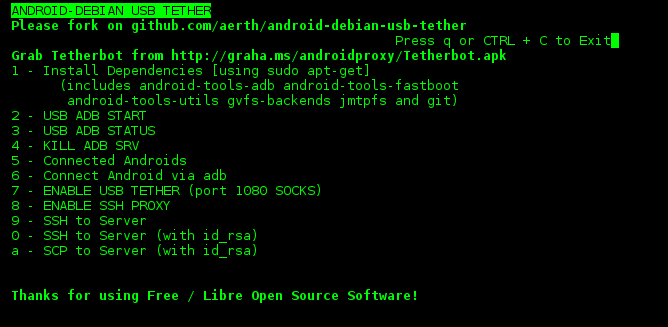
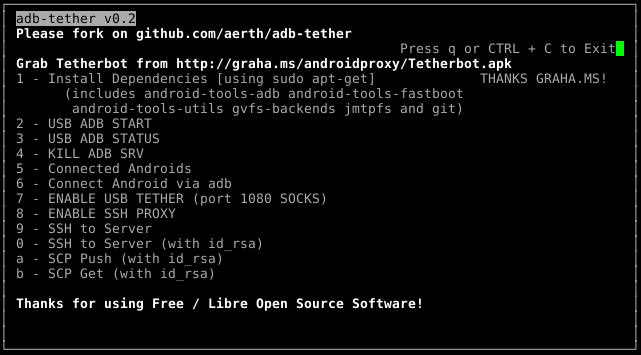
v0.2 adb-tether

Changed region(s): [[0.0, 0.0, 0.9984, 0.7951], [0.0, 0.8257, 0.6552, 0.9174], [0.0, 0.9786, 0.9984, 1.0]]

diff --git a/README.md b/README.md
@@ -1,8 +1,10 @@
-# android-debian-usb-tether
+# adb-tether
 
-Using adb, tetherbot.apk, and SOCKS. Python + curses interface
+Requires adb, tetherbot.apk, and I like to use proxychains with it. Python + curses interface to turn difficult-to-remember commands into one letter commands.
 
 This script makes using Tetherbot easier. Tetherbot shares internet from android to debian via usb, but requres some command lines that are difficult to remember. This script is a python powered interface to make things as easy as pressing "7". 
+
+Thank you
 
 Please fork. Pull requests are very welcome.
 
@@ -15,11 +17,19 @@ Works on: Debian Wheezy & Rooted Sony Xperia Ion LT28at 4G LTE
 
 Usage: 
 ```
-chmod+x tether-cli.py
-./tether-cli.py
+chmod+x adb-tether
+./adb-tether
 ```
 
-Easy to use Ncurses menu for:
+Install: 
+```
+chmod+x adb-tether
+sudo cp adb-tether /usr/local/bin/
+```
+
+
+
+##Easy to use Ncurses menu for:
 
     * Installing android-tools-adb
     
@@ -28,6 +38,8 @@ Easy to use Ncurses menu for:
     * Enable Port Forwarding via USB (Tetherbot)
     
     * Easy to use SSH (before was just using firefox)
+
+    * Near future: more adb functions (screen shot, backup phone, database sqlite3 commands, and better scp function)
     
 
 This script was created to make it a little easier to connect to a server via SSH using the USB tethered net!
@@ -37,5 +49,48 @@ This script was created to make it a little easier to connect to a server via SS
 
 Big thanks to http://graha.ms/androidproxy/
 
+#ADB-TETHER LICENSE
+```
+android-tether is released under the MIT License!
+You may "use, copy, modify, merge, publish, distribute, sublicense, and/or sell
+copies of the Software" as long as your also publish this LICENSE file with it!
 
+Thanks for using Free Libre Open Source Software!
+
+                 _   _     
+  __ _  ___ _ __| |_| |__  
+ / _` |/ _ \ '__| __| '_ \ 
+| (_| |  __/ |  | |_| | | |
+ \__,_|\___|_|   \__|_| |_|
+                           
+
+The MIT License (MIT)
+
+Copyright (c) 2015 aerth@isupon.us
+
+Permission is hereby granted, free of charge, to any person obtaining a copy
+of this software and associated documentation files (the "Software"), to deal
+in the Software without restriction, including without limitation the rights
+to use, copy, modify, merge, publish, distribute, sublicense, and/or sell
+copies of the Software, and to permit persons to whom the Software is
+furnished to do so, subject to the following conditions:
+
+The above copyright notice and this permission notice shall be included in all
+copies or substantial portions of the Software.
+
+THE SOFTWARE IS PROVIDED "AS IS", WITHOUT WARRANTY OF ANY KIND, EXPRESS OR
+IMPLIED, INCLUDING BUT NOT LIMITED TO THE WARRANTIES OF MERCHANTABILITY,
+FITNESS FOR A PARTICULAR PURPOSE AND NONINFRINGEMENT. IN NO EVENT SHALL THE
+AUTHORS OR COPYRIGHT HOLDERS BE LIABLE FOR ANY CLAIM, DAMAGES OR OTHER
+LIABILITY, WHETHER IN AN ACTION OF CONTRACT, TORT OR OTHERWISE, ARISING FROM,
+OUT OF OR IN CONNECTION WITH THE SOFTWARE OR THE USE OR OTHER DEALINGS IN THE
+SOFTWARE.
+
+```
+
+
+#TETHERBOT LICENSE
+```
+THE SOFTWARE IS PROVIDED "AS IS", WITHOUT WARRANTY OF ANY KIND, EXPRESS OR IMPLIED, INCLUDING BUT NOT LIMITED TO THE WARRANTIES OF MERCHANTABILITY, FITNESS FOR A PARTICULAR PURPOSE AND NONINFRINGEMENT. IN NO EVENT SHALL THE AUTHORS OR COPYRIGHT HOLDERS BE LIABLE FOR ANY CLAIM, DAMAGES OR OTHER LIABILITY, WHETHER IN AN ACTION OF CONTRACT, TORT OR OTHERWISE, ARISING FROM, OUT OF OR IN CONNECTION WITH THE SOFTWARE OR THE USE OR OTHER DEALINGS IN THE SOFTWARE. 
+```
 
